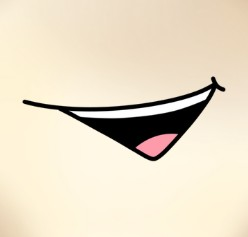
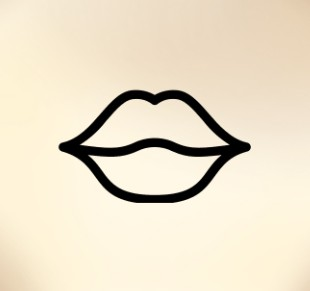
Add files via upload

Changed region(s): [[0.0847, 0.2954, 0.9315, 0.7089]]

diff --git a/data.js b/data.js
@@ -84,7 +84,8 @@ const categories = [
       "Donner de la Tsédaka",
       "Prélever son Maasser",
       "Éviter les musiques non juives",
-      "Éviter les vidéos ou contenus inappropriés"
+      "Éviter les vidéos ou contenus inappropriés",
+      "Autre (Ma propre idée d'engagement)"
     ]
   }
 ];

diff --git a/merci.html b/merci.html
@@ -109,7 +109,7 @@
       </div>
 
       <p>
-        Que cette mitsva soit un grand mérite léïlouy nichmat Mme Azogui.
+        Que cette mitsva soit un grand mérite léïlouy nichmat Léa Hava Lise bat Simha Simi.
       </p>
 
       <p class="amen">Amen.</p>

diff --git a/mentions-legales.html b/mentions-legales.html
@@ -55,7 +55,7 @@
       </p>
 
       <p>
-        Adresse électronique : leilouynichmat.mmeazogui@gmail.com 
+        Pour toute information complémentaire : leilouynichmat.mmeazogui@gmail.com 
       </p>
 
       <h2>Hébergement</h2>

diff --git a/index.html b/index.html
@@ -57,7 +57,7 @@
         >
         <h1>Leïlouy Nichmat</h1>
 
-        <h2>Madame Azogui</h2>
+        <h2>Léa Hava Lise bat Simha Simi</h2>
 
 
         <p class="texte-introduction">
